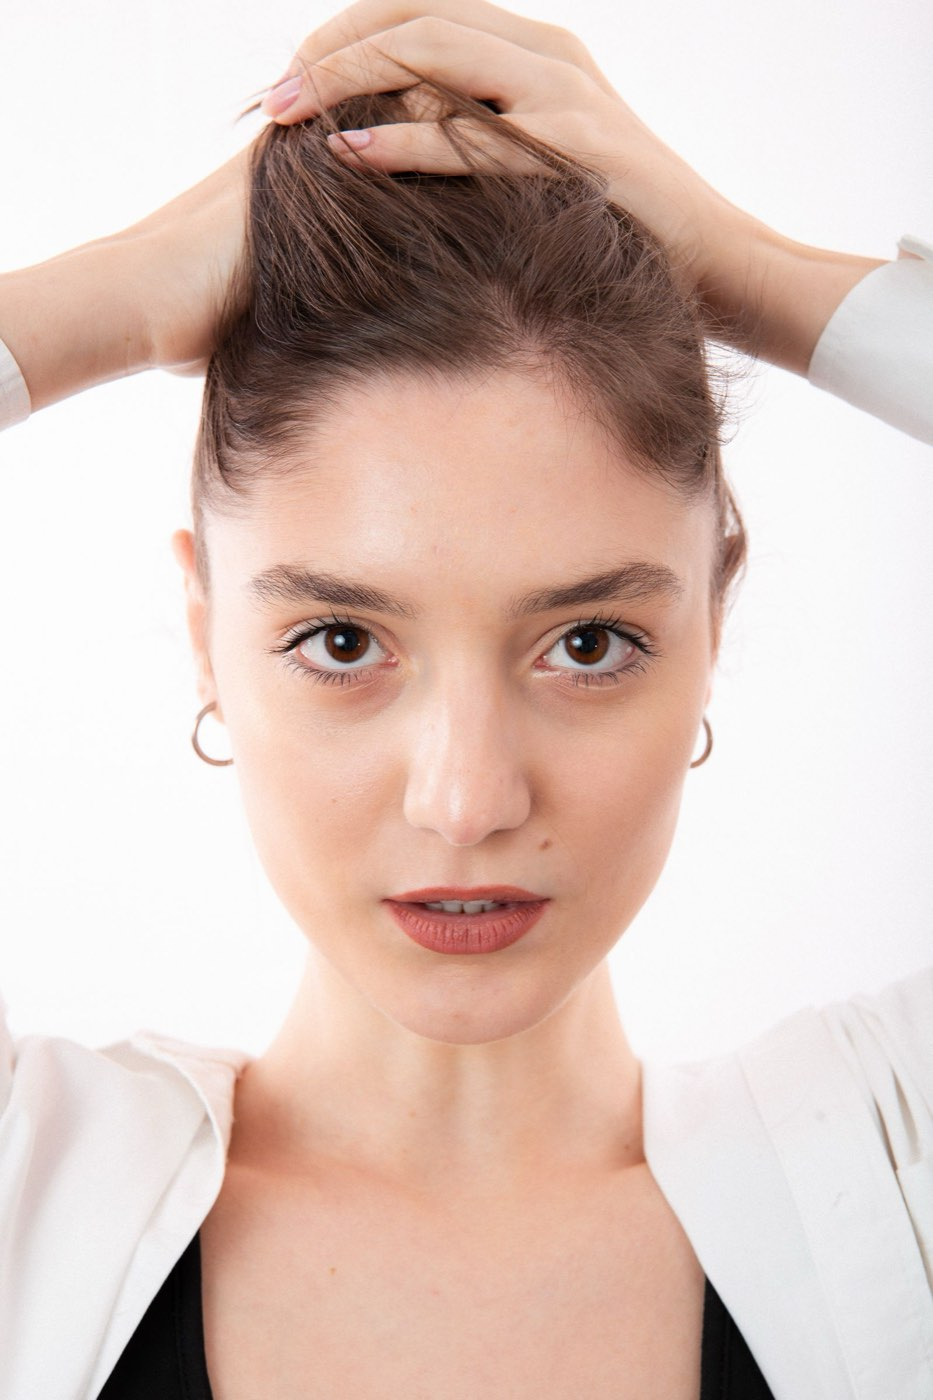
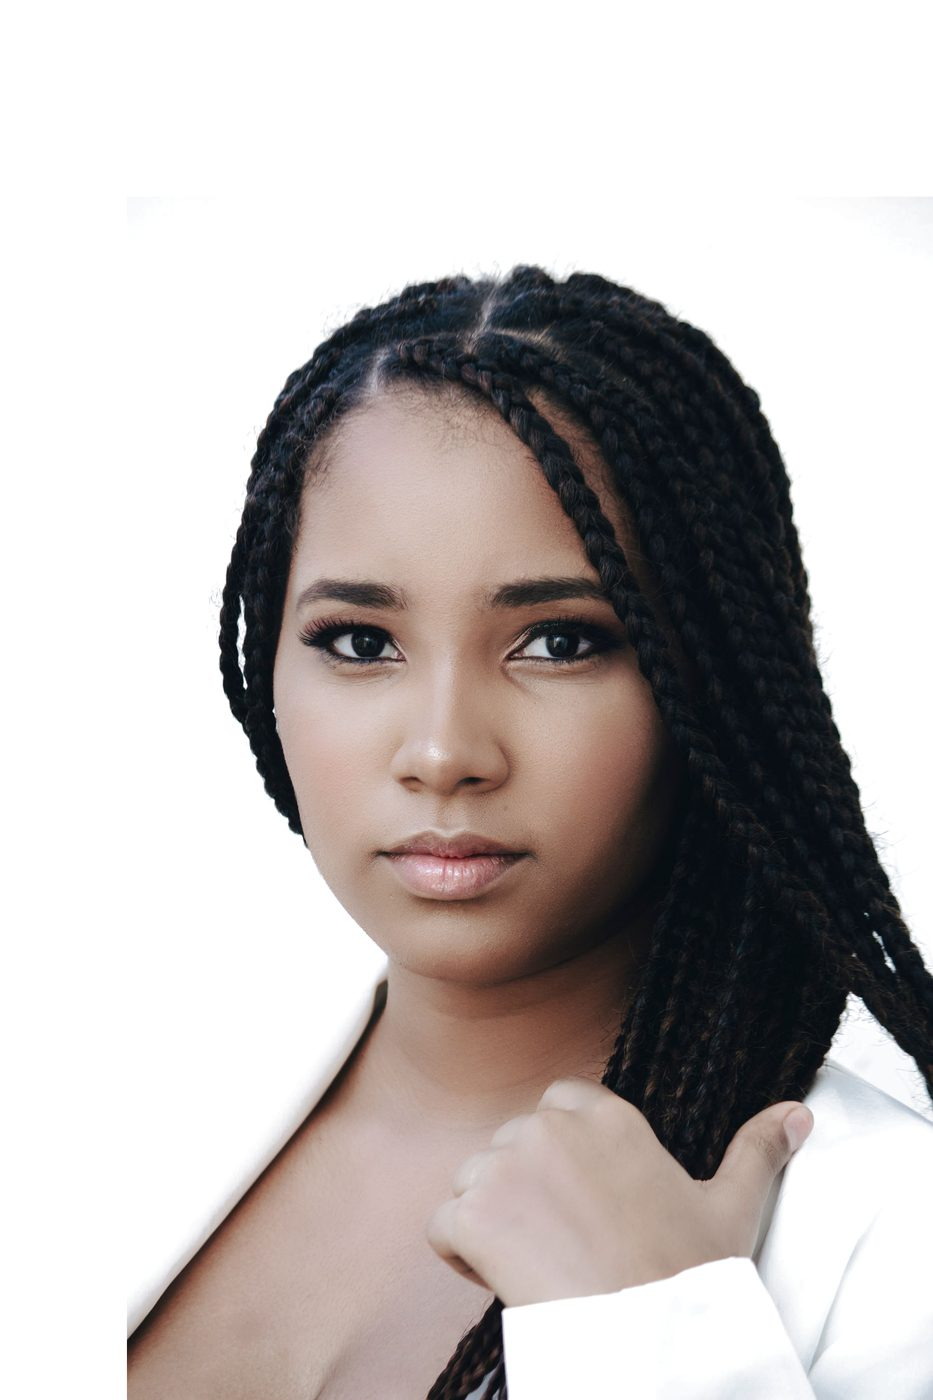
Swap the hero portrait for a calmer, better-framed shot
The previous photo had the model's arms raised into her hair, which read
as a busy gesture rather than the composed beauty-studio shot the layout
is imitating.

Replaced with Pexels 4654180 (Pexels License, free for commercial use,
no attribution required): front-facing, direct gaze, hands down, and
braids that spill past the frame — which is the effect the glass phone
depends on.

The source needed prep to fit the composition. Rather than cropping in
(a first attempt did, and the head then overwhelmed the frame with the
score ring landing on her mouth), the image is padded: 252px to the left
to centre the head, 390px above for headroom so the frame's top edge
falls on hair rather than forehead. The light-grey studio backdrop is
lifted to white so it dissolves into the page instead of showing as a
grey panel. Final asset is 933x1400, 91 KB — smaller than the one it
replaces.

Top scrim eased from .5 to .38 since this model's hair is much darker
and the heavier gradient turned it murky.

diff --git a/style.css b/style.css
@@ -275,7 +275,7 @@ h1, h2, h3, .num, .price-figure b {
 .glass::before, .glass::after {
   content: ''; position: absolute; left: 0; right: 0; pointer-events: none;
 }
-.glass::before { top: 0;    height: 34%; background: linear-gradient(to bottom, rgba(24,20,17,.5), transparent); }
+.glass::before { top: 0;    height: 30%; background: linear-gradient(to bottom, rgba(24,20,17,.38), transparent); }
 .glass::after  { bottom: 0; height: 46%; background: linear-gradient(to top,    rgba(24,20,17,.58), transparent); }
 
 .notch {
